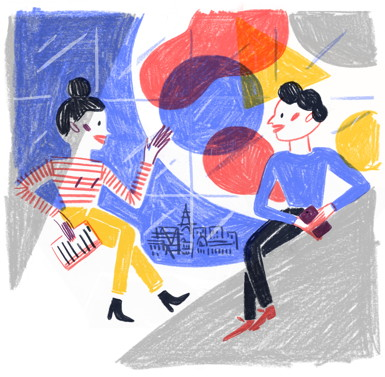
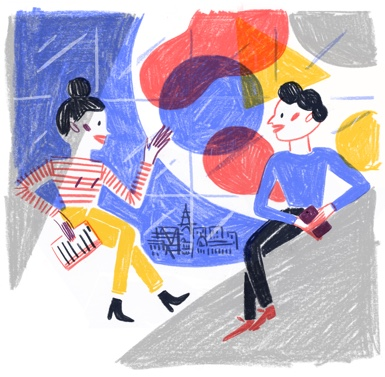
webp with jpg fallback

diff --git a/src/index.html b/src/index.html
@@ -35,6 +35,8 @@
 					<div class="row">
 						<div class="box col-12 col-md">
 							<picture>
+								<source srcset="images/illustration-1.webp" type="image/webp">
+								<source srcset="images/illustration-1.jpg" type="image/jpeg"> 
 								<img src="images/illustration-1.jpg" alt="Illustration: Build razor-focused teams to execute your vision">
 							</picture>
 							<aside>Fig.1/3</aside>
@@ -53,6 +55,8 @@
 					<div class="row">
 						<div class="box col-12 col-md">
 							<picture>
+								<source srcset="images/illustration-2.webp" type="image/webp">
+								<source srcset="images/illustration-2.jpg" type="image/jpeg"> 
 								<img src="images/illustration-2.jpg" alt="Illustration: It's not done until it ships">
 							</picture>
 							<aside>Fig.2/3</aside>
@@ -71,6 +75,8 @@
 					<div class="row">
 						<div class="box col-12 col-md">
 							<picture>
+								<source srcset="images/illustration-3.webp" type="image/webp">
+								<source srcset="images/illustration-3.jpg" type="image/jpeg"> 
 								<img src="images/illustration-3.jpg" alt="Illustration: Empower your organization and light your path to sucess">
 							</picture>
 							<aside>Fig.3/3</aside>
@@ -92,18 +98,90 @@
 						<h1>We contributed to their success...</h1>
 						<hr>
 						<ul class="row">
-							<li class="col-6 col-md-3"><a href="https://numa.co"><img src="images/clients/numa.jpg" alt="NUMA"></a></li>
-							<li class="col-6 col-md-3"><a href="http://www.accorhotels.com"><img src="images/clients/accorhotels.jpg" alt="AccorHotels"></a></li>
-							<li class="col-6 col-md-3"><a href="http://www.spectre-music.com"><img src="images/clients/spectre.jpg" alt="Spectre"></a></li>
-							<li class="col-6 col-md-3"><a href="https://www.allianz.fr/"><img src="images/clients/allianz.jpg" alt="Allianz"></a></li>
-							<li class="col-6 col-md-3"><a href="https://www.bouyguestelecom.fr/"><img src="images/clients/bouygues.jpg" alt="Bouygues Telecom"></a></li>
-							<li class="col-6 col-md-3"><a href="https://stootie.com/"><img src="images/clients/stootie.jpg" alt="Stootie"></a></li>
-							<li class="col-6 col-md-3"><a href="http://www.sncf.com/"><img src="images/clients/sncf.jpg" alt="SNCF"></a></li>
-							<li class="col-6 col-md-3"><a href="https://www.raja.fr/"><img src="images/clients/raja.jpg" alt="Raja"></a></li>
-							<li class="col-6 col-md-3"><a href="http://www.disneylandparis.fr/"><img src="images/clients/disneyland.jpg" alt="Disneyland"></a></li>
-							<li class="col-6 col-md-3"><a href="https://www.in-and-win.com/"><img src="images/clients/in-win.jpg" alt="In & Win"></a></li>
-							<li class="col-6 col-md-3"><a href="http://sell-in.io/"><img src="images/clients/sell-in.jpg" alt="Sell-in"></a></li>
-							<li class="col-6 col-md-3"><a href="http://www.colorz.fr/"><img src="images/clients/colorz.jpg" alt="colorz"></a></li>
+							<li class="col-6 col-md-3"><a href="https://numa.co">
+								<picture>
+									<source srcset="images/clients/numa.webp" type="image/webp">
+									<source srcset="images/clients/numa.jpg" type="image/jpeg"> 
+									<img src="images/clients/numa.jpg" alt="NUMA">
+								</picture>
+							</a></li>
+							<li class="col-6 col-md-3"><a href="http://www.accorhotels.com">
+								<picture>
+									<source srcset="images/clients/accorhotels.webp" type="image/webp">
+									<source srcset="images/clients/accorhotels.jpg" type="image/jpeg"> 
+									<img src="images/clients/accorhotels.jpg" alt="AccorHotels">
+								</picture>
+							</a></li>
+							<li class="col-6 col-md-3"><a href="http://www.spectre-music.com">
+								<picture>
+									<source srcset="images/clients/spectre.webp" type="image/webp">
+									<source srcset="images/clients/spectre.jpg" type="image/jpeg"> 
+									<img src="images/clients/spectre.jpg" alt="Spectre">
+								</picture>
+							</a></li>
+							<li class="col-6 col-md-3"><a href="https://www.allianz.fr/">
+								<picture>
+									<source srcset="images/clients/allianz.webp" type="image/webp">
+									<source srcset="images/clients/allianz.jpg" type="image/jpeg"> 
+									<img src="images/clients/allianz.jpg" alt="Allianz">
+								</picture>
+							</a></li>
+							<li class="col-6 col-md-3"><a href="https://www.bouyguestelecom.fr/">
+								<picture>
+									<source srcset="images/clients/bouygues.webp" type="image/webp">
+									<source srcset="images/clients/bouygues.jpg" type="image/jpeg"> 
+									<img src="images/clients/bouygues.jpg" alt="Bouygues Telecom">
+								</picture>
+							</a></li>
+							<li class="col-6 col-md-3"><a href="https://stootie.com/">
+								<picture>
+									<source srcset="images/clients/stootie.webp" type="image/webp">
+									<source srcset="images/clients/stootie.jpg" type="image/jpeg"> 
+									<img src="images/clients/stootie.jpg" alt="Stootie">
+								</picture>
+							</a></li>
+							<li class="col-6 col-md-3"><a href="http://www.sncf.com/">
+								<picture>
+									<source srcset="images/clients/sncf.webp" type="image/webp">
+									<source srcset="images/clients/sncf.jpg" type="image/jpeg"> 
+									<img src="images/clients/sncf.jpg" alt="SNCF">
+								</picture>
+							</a></li>
+							<li class="col-6 col-md-3"><a href="https://www.raja.fr/">
+								<picture>
+									<source srcset="images/clients/raja.webp" type="image/webp">
+									<source srcset="images/clients/raja.jpg" type="image/jpeg"> 
+									<img src="images/clients/raja.jpg" alt="Raja">
+								</picture>
+							</a></li>
+							<li class="col-6 col-md-3"><a href="http://www.disneylandparis.fr/">
+								<picture>
+									<source srcset="images/clients/disneyland.webp" type="image/webp">
+									<source srcset="images/clients/disneyland.jpg" type="image/jpeg"> 
+									<img src="images/clients/disneyland.jpg" alt="Disneyland">
+								</picture>
+							</a></li>
+							<li class="col-6 col-md-3"><a href="https://www.in-and-win.com/">
+								<picture>
+									<source srcset="images/clients/in-win.webp" type="image/webp">
+									<source srcset="images/clients/in-win.jpg" type="image/jpeg"> 
+									<img src="images/clients/in-win.jpg" alt="In & Win">
+								</picture>
+							</a></li>
+							<li class="col-6 col-md-3"><a href="http://sell-in.io/">
+								<picture>
+									<source srcset="images/clients/sell-in.webp" type="image/webp">
+									<source srcset="images/clients/sell-in.jpg" type="image/jpeg"> 
+									<img src="images/clients/sell-in.jpg" alt="Sell-in">
+								</picture>
+							</a></li>
+							<li class="col-6 col-md-3"><a href="http://www.colorz.fr/">
+								<picture>
+									<source srcset="images/clients/colorz.webp" type="image/webp">
+									<source srcset="images/clients/colorz.jpg" type="image/jpeg"> 
+									<img src="images/clients/colorz.jpg" alt="colorz">
+								</picture>
+							</a></li>
 						</ul>
 					</div>
 				</section>
